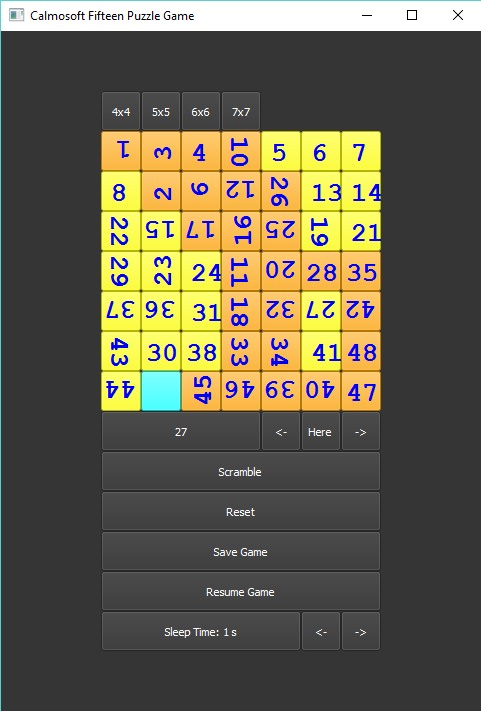
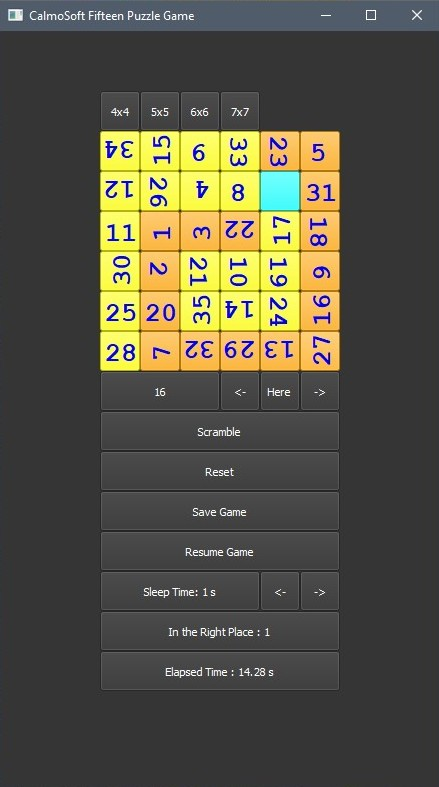
Update Ring Website - Resources - Samples

diff --git a/website/resources.html b/website/resources.html
@@ -133,7 +133,7 @@
 		
 
 		<div class="panel panel-primary" id="samples">
-		      <div class="panel-heading">Samples <span class="badge">10</span></div>
+		      <div class="panel-heading">Samples <span class="badge">9</span></div>
 		      <div class="panel-body">
 
 			<table class="table table-striped">
@@ -152,11 +152,11 @@
 				  <tr>
 					
 						 <th>
-							<a href="https://github.com/CalmoSoft/CalmoSoft-Fifteen-Puzzle-Game/blob/gh-pages/CalmoSoftPuzzle.ring" target="_blank">CalmoSoft Fifteen Puzzle Game</a>
+							<a href="https://github.com/ring-lang/ring/blob/master/applications/fifteenpuzzle/CalmoSoftFifteenPuzzleGame.ring" target="_blank">CalmoSoft Fifteen Puzzle Game</a>
 						 </th>
 					
 						 <th>
-							<img src="fifteen.jpg" width="40%">
+							<img src="fifteen2.png" width="40%">
 						 </th>
 					
 				  </tr>
@@ -241,18 +241,6 @@
 					
 						 <th>
 							<img src="GetQuoteCapture.jpg" width="40%">
-						 </th>
-					
-				  </tr>
-				
-				  <tr>
-					
-						 <th>
-							<a href="https://github.com/ring-lang/ring/blob/master/applications/fifteenpuzzle/CalmoSoftFifteenPuzzleGame.ring" target="_blank">Fifteen Puzzle 2</a>
-						 </th>
-					
-						 <th>
-							<img src="fifteen2.png" width="40%">
 						 </th>
 					
 				  </tr>
